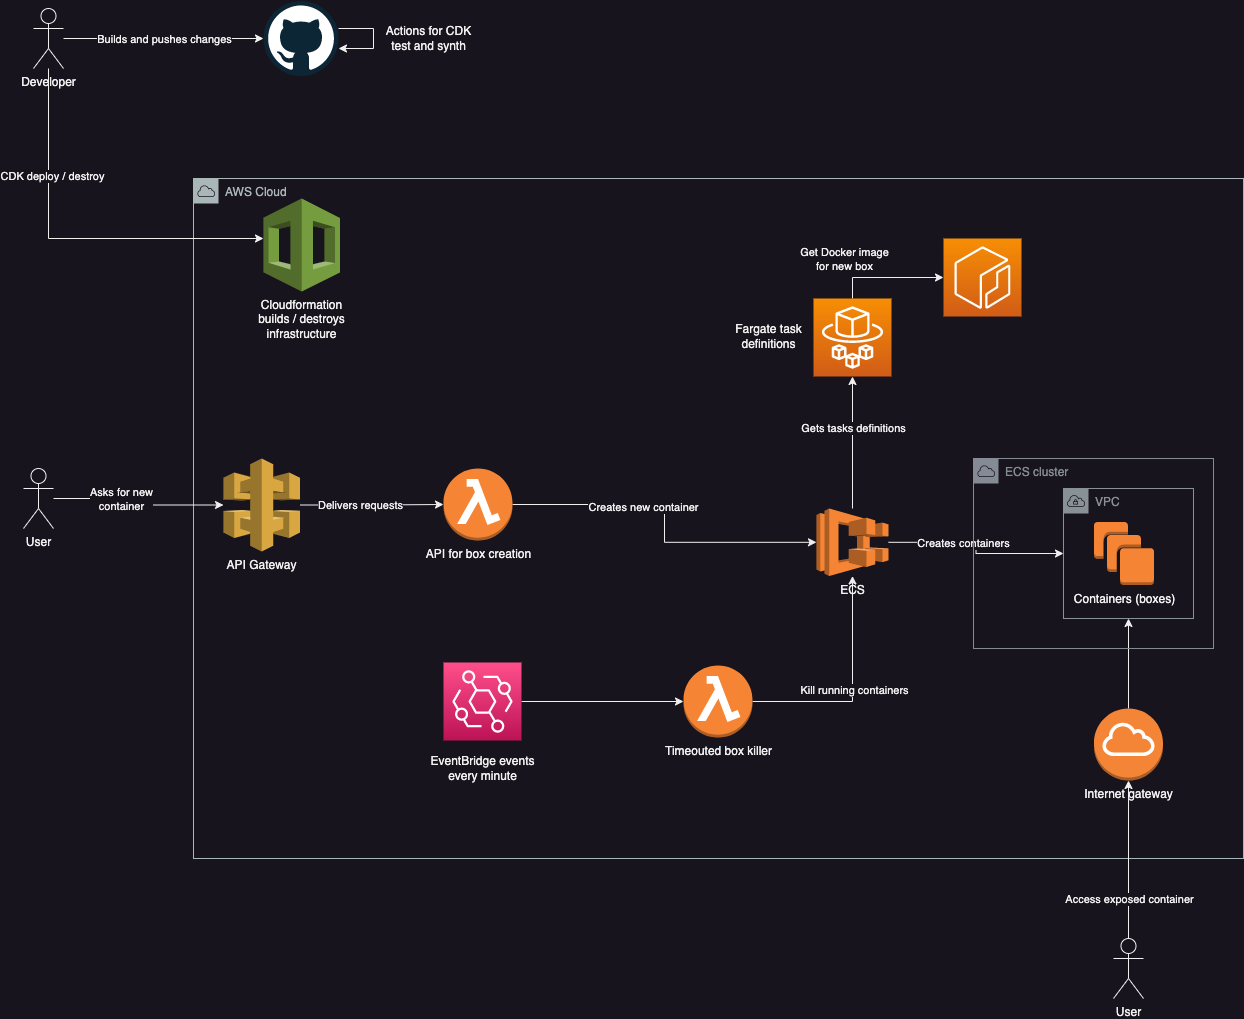
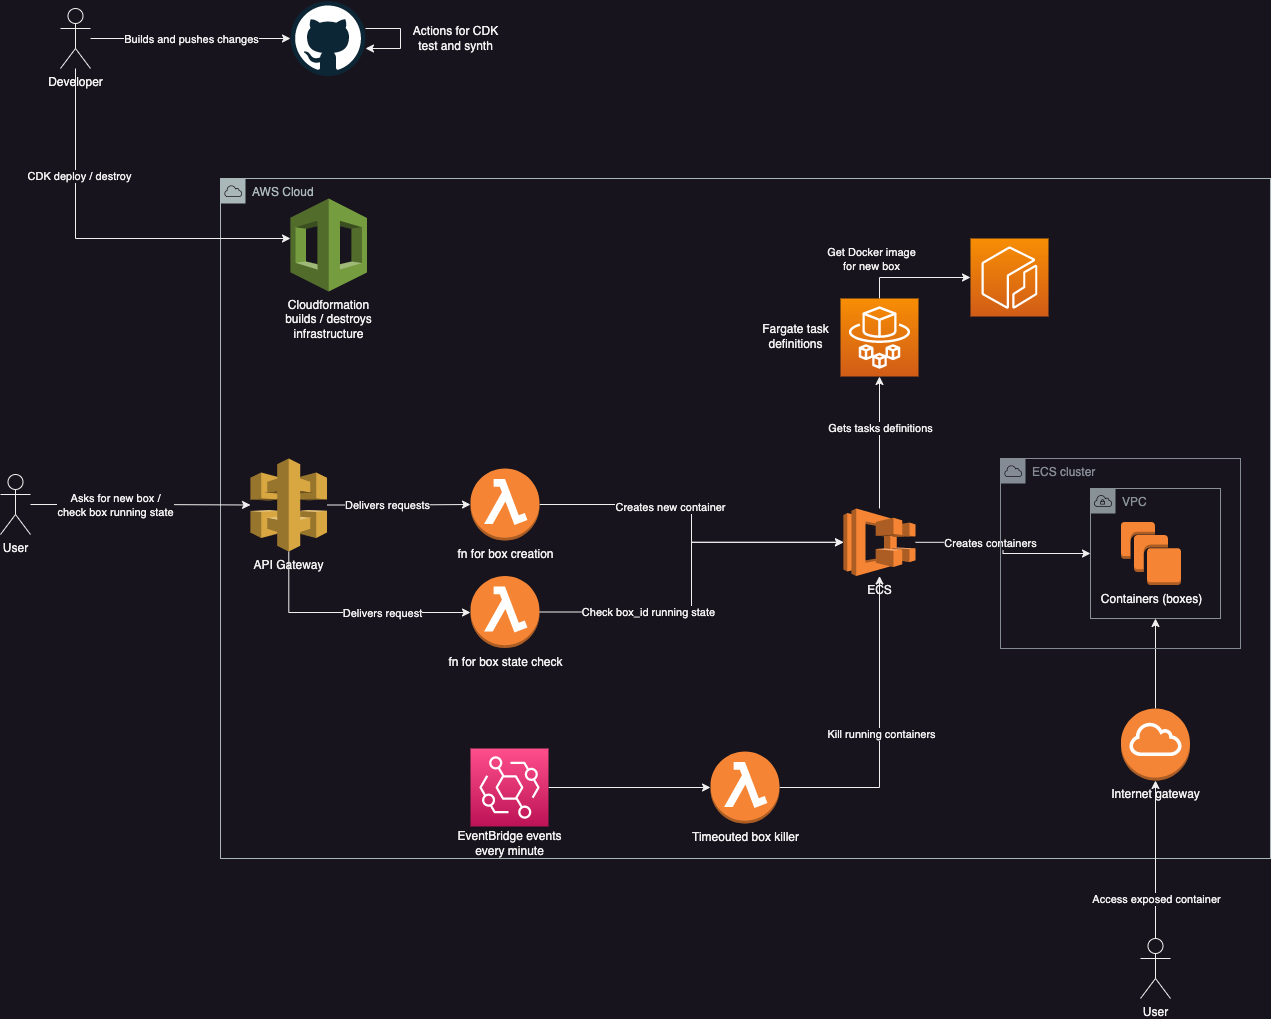
Instead of speeding up startup, splits API into creation and check endpoints. Closes #15

diff --git a/efimeral/lib/efimeral-stack.ts b/efimeral/lib/efimeral-stack.ts
@@ -86,36 +86,6 @@ export class APIStack extends cdk.Stack {
       this, 'sentry-dsn', 'lambdasSentryDSN'
     ).secretValue.unsafeUnwrap().toString();
 
-    const fnHandler = new lambdaNodeJS.NodejsFunction(this, 'lambda-api-handler', {
-      description: 'Creates new instances on Fargate cluster and returns the public URL.',
-      runtime: lambda.Runtime.NODEJS_18_X,
-      entry: './lambdas/api/api.js',
-      allowPublicSubnet: true,
-      handler: 'handler',
-      timeout: cdk.Duration.seconds(60),
-      logRetention: logs.RetentionDays.ONE_WEEK,
-      environment: {
-        TASK_DEFINITION_ARN: task.taskDefinitionArn,
-        CLUSTER_ARN: cluster.clusterArn,
-        SUBNET_ID: vpc.publicSubnets[0].subnetId,
-        SECURITY_GROUP_ID: sg.securityGroupId,
-        CONTAINER_PORT: `${containerPort}`,
-        CORS_DISABLED: "false",
-        LAMBDAS_SENTRY_DSN: sentryDSN,
-        MAX_ALLOWED_RUNNING_TASKS: "10",
-      },
-      bundling: {
-        esbuildArgs: {
-          '--alias:@layer': './lambdas/layers/listtasks/nodejs',
-        },
-        nodeModules: [
-          '@sentry/serverless',
-        ],
-      },
-    });
-
-    task.grantRun(fnHandler);
-
     const fnApiCreateBoxHandler = new lambdaNodeJS.NodejsFunction(this, 'api-create-box', {
       description: 'Creates new instances on Fargate cluster and returns the task ID as box ID.',
       runtime: lambda.Runtime.NODEJS_18_X,
@@ -126,7 +96,7 @@ export class APIStack extends cdk.Stack {
       logRetention: logs.RetentionDays.ONE_WEEK,
       environment: {
         LAMBDAS_SENTRY_DSN: sentryDSN,
-        CORS_DISABLED: "false",
+        CORS_DISABLED: "true",
         CLUSTER_ARN: cluster.clusterArn,
         MAX_ALLOWED_RUNNING_TASKS: "10",
         TASK_DEFINITION_ARN: task.taskDefinitionArn,
@@ -145,30 +115,60 @@ export class APIStack extends cdk.Stack {
 
     task.grantRun(fnApiCreateBoxHandler);
 
-    const fnHandlerPolicy = new iam.PolicyStatement({
-      actions: ['ecs:ListTasks', 'ecs:DescribeTasks', 'ec2:DescribeNetworkInterfaces'],
+    const fnApiCheckBoxIdHandler = new lambdaNodeJS.NodejsFunction(this, 'api-check-box-id', {
+      description: 'Checks RUNNING state for box ID and returns its public URL if exists',
+      runtime: lambda.Runtime.NODEJS_18_X,
+      entry: './lambdas/api/check-box-id.js',
+      allowPublicSubnet: true,
+      handler: 'handler',
+      timeout: cdk.Duration.seconds(10),
+      logRetention: logs.RetentionDays.ONE_WEEK,
+      environment: {
+        LAMBDAS_SENTRY_DSN: sentryDSN,
+        CORS_DISABLED: "true",
+        CLUSTER_ARN: cluster.clusterArn,
+        CONTAINER_PORT: `${containerPort}`,
+      },
+      bundling: {
+        esbuildArgs: {
+          '--alias:@layer': './lambdas/layers/listtasks/nodejs',
+        },
+        nodeModules: [
+          '@sentry/serverless',
+        ],
+      },
+    });
+
+    const fnApiCreateBoxPolicy = new iam.PolicyStatement({
+      actions: ['ecs:ListTasks',],
       resources: ["*"],
       effect: iam.Effect.ALLOW,
     });
-    fnHandler.addToRolePolicy(fnHandlerPolicy);
-    fnApiCreateBoxHandler.addToRolePolicy(fnHandlerPolicy);
+    fnApiCreateBoxHandler.addToRolePolicy(fnApiCreateBoxPolicy);
+
+    const fnApiCheckBoxIdPolicy = new iam.PolicyStatement({
+      actions: ['ecs:DescribeTasks', 'ec2:DescribeNetworkInterfaces'],
+      resources: ["*"],
+      effect: iam.Effect.ALLOW,
+    });
+    fnApiCheckBoxIdHandler.addToRolePolicy(fnApiCheckBoxIdPolicy);
 
     const api = new apigateway.RestApi(this, "boxes-api", {
-      restApiName: "Container service API",
-      description: "Creates new Linux boxes on demand."
+      restApiName: "Efimeral service API",
+      description: "Linux boxes on demand."
     });
 
-    const rootIntegration = new apigateway.LambdaIntegration(fnHandler, {
-      requestTemplates: { "application/json": '{ "statusCode": "201" }' }
-    });
-
-    api.root.addMethod("POST", rootIntegration);
-  
     const createBoxesIntegration = new apigateway.LambdaIntegration(fnApiCreateBoxHandler, {
       requestTemplates: { "application/json": '{ "statusCode": "201" }' }
     })
     const boxesResource = api.root.addResource('boxes');
     boxesResource.addMethod('POST', createBoxesIntegration);
+
+    const checkBoxIdIntegration = new apigateway.LambdaIntegration(fnApiCheckBoxIdHandler, {
+      requestTemplates: { "application/json": '{ "statusCode": "201" }' }
+    })
+    const boxResource = boxesResource.addResource('{box_id}');
+    boxResource.addMethod('GET', checkBoxIdIntegration);
   
     new cdk.CfnOutput(this, 'apiUrl', {value: api.url});
 

diff --git a/efimeral/lambdas/api/check-box-id.js b/efimeral/lambdas/api/check-box-id.js
@@ -21,7 +21,6 @@ exports.handler = Sentry.AWSLambda.wrapHandler(async (event, context) => {
   const ecs = new ECS();
   
   try {
-    const taskId = undefined;
     const task = await getRunningTaskById(process.env.CLUSTER_ARN, event.pathParameters.box_id, ecs);
     if (task === undefined) {
       return {
@@ -55,7 +54,7 @@ exports.handler = Sentry.AWSLambda.wrapHandler(async (event, context) => {
   };
 });
 
-async function getRunningTask(clusterArn, taskId, ecs) {
+async function getRunningTaskById(clusterArn, taskId, ecs) {
   const params = {
     cluster: clusterArn,
     tasks: [taskId,]

diff --git a/efimeral/lambdas/api/create-box.js b/efimeral/lambdas/api/create-box.js
@@ -40,7 +40,6 @@ exports.handler = Sentry.AWSLambda.wrapHandler(async (event, context) => {
       body: JSON.stringify({
         message: 'Box created',
         box_id: getTaskId(runTaskData.tasks[0].taskArn),
-        url: containerURL,
       }),
     };
 
